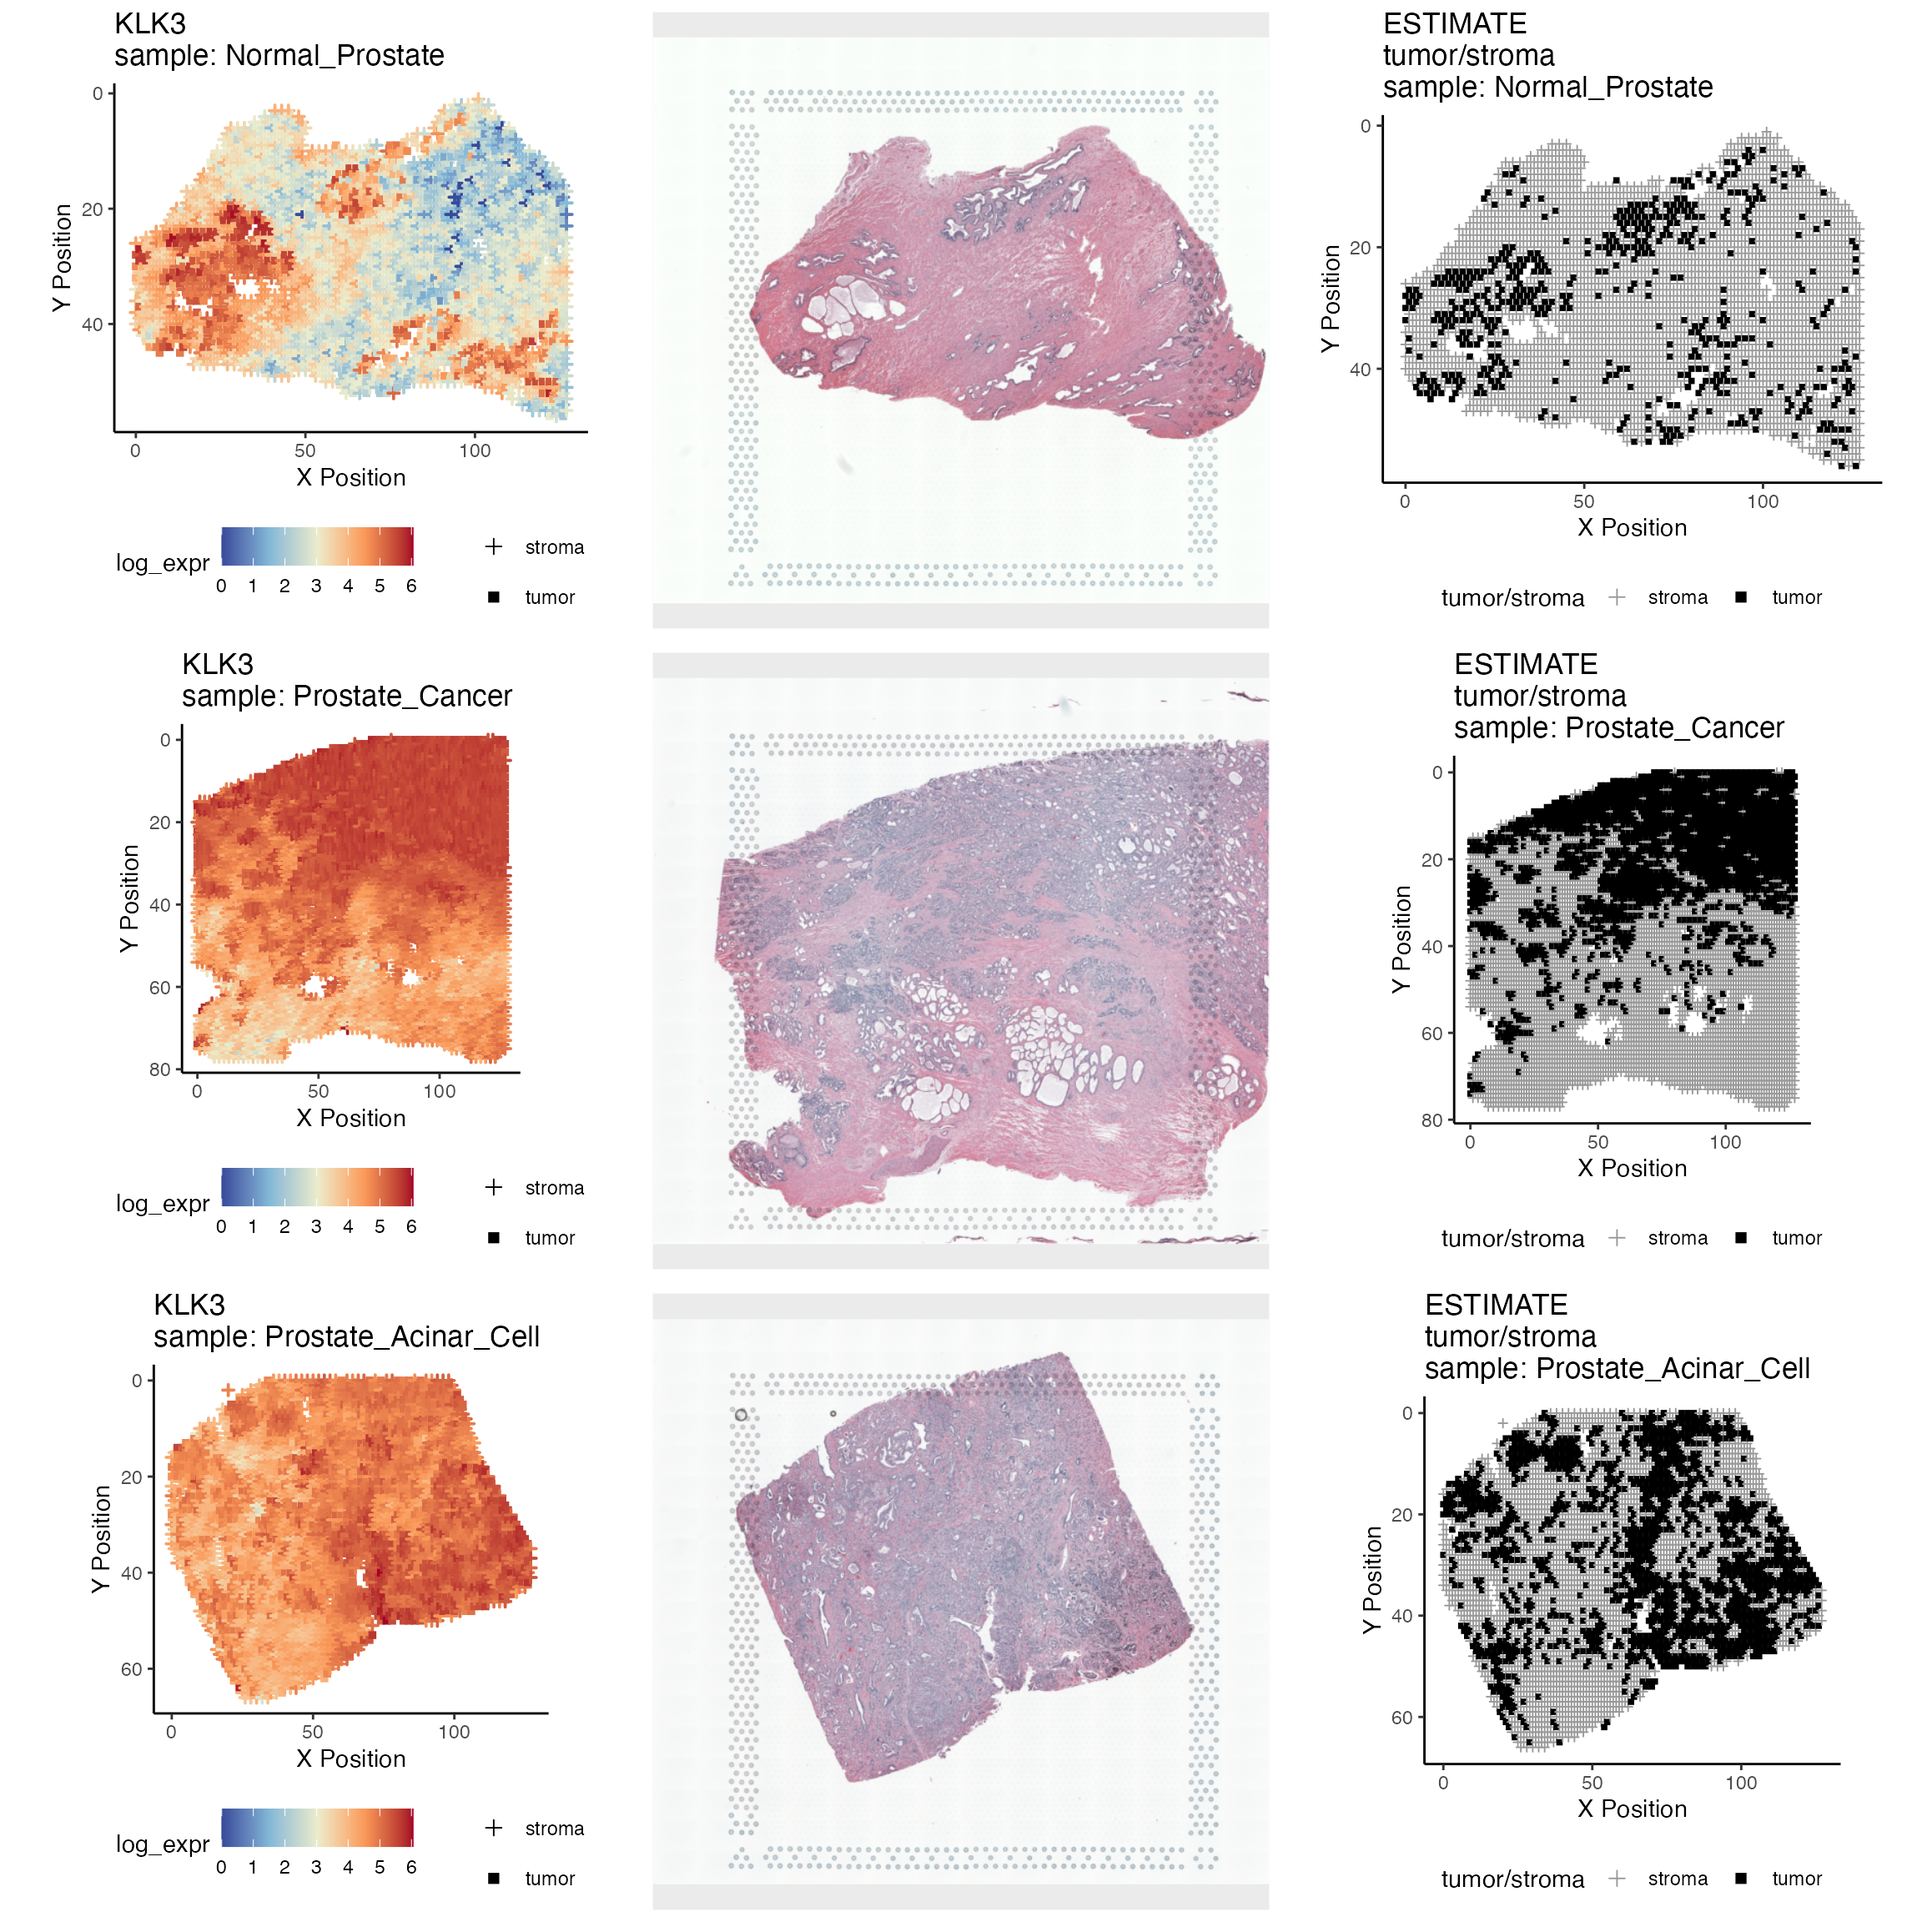
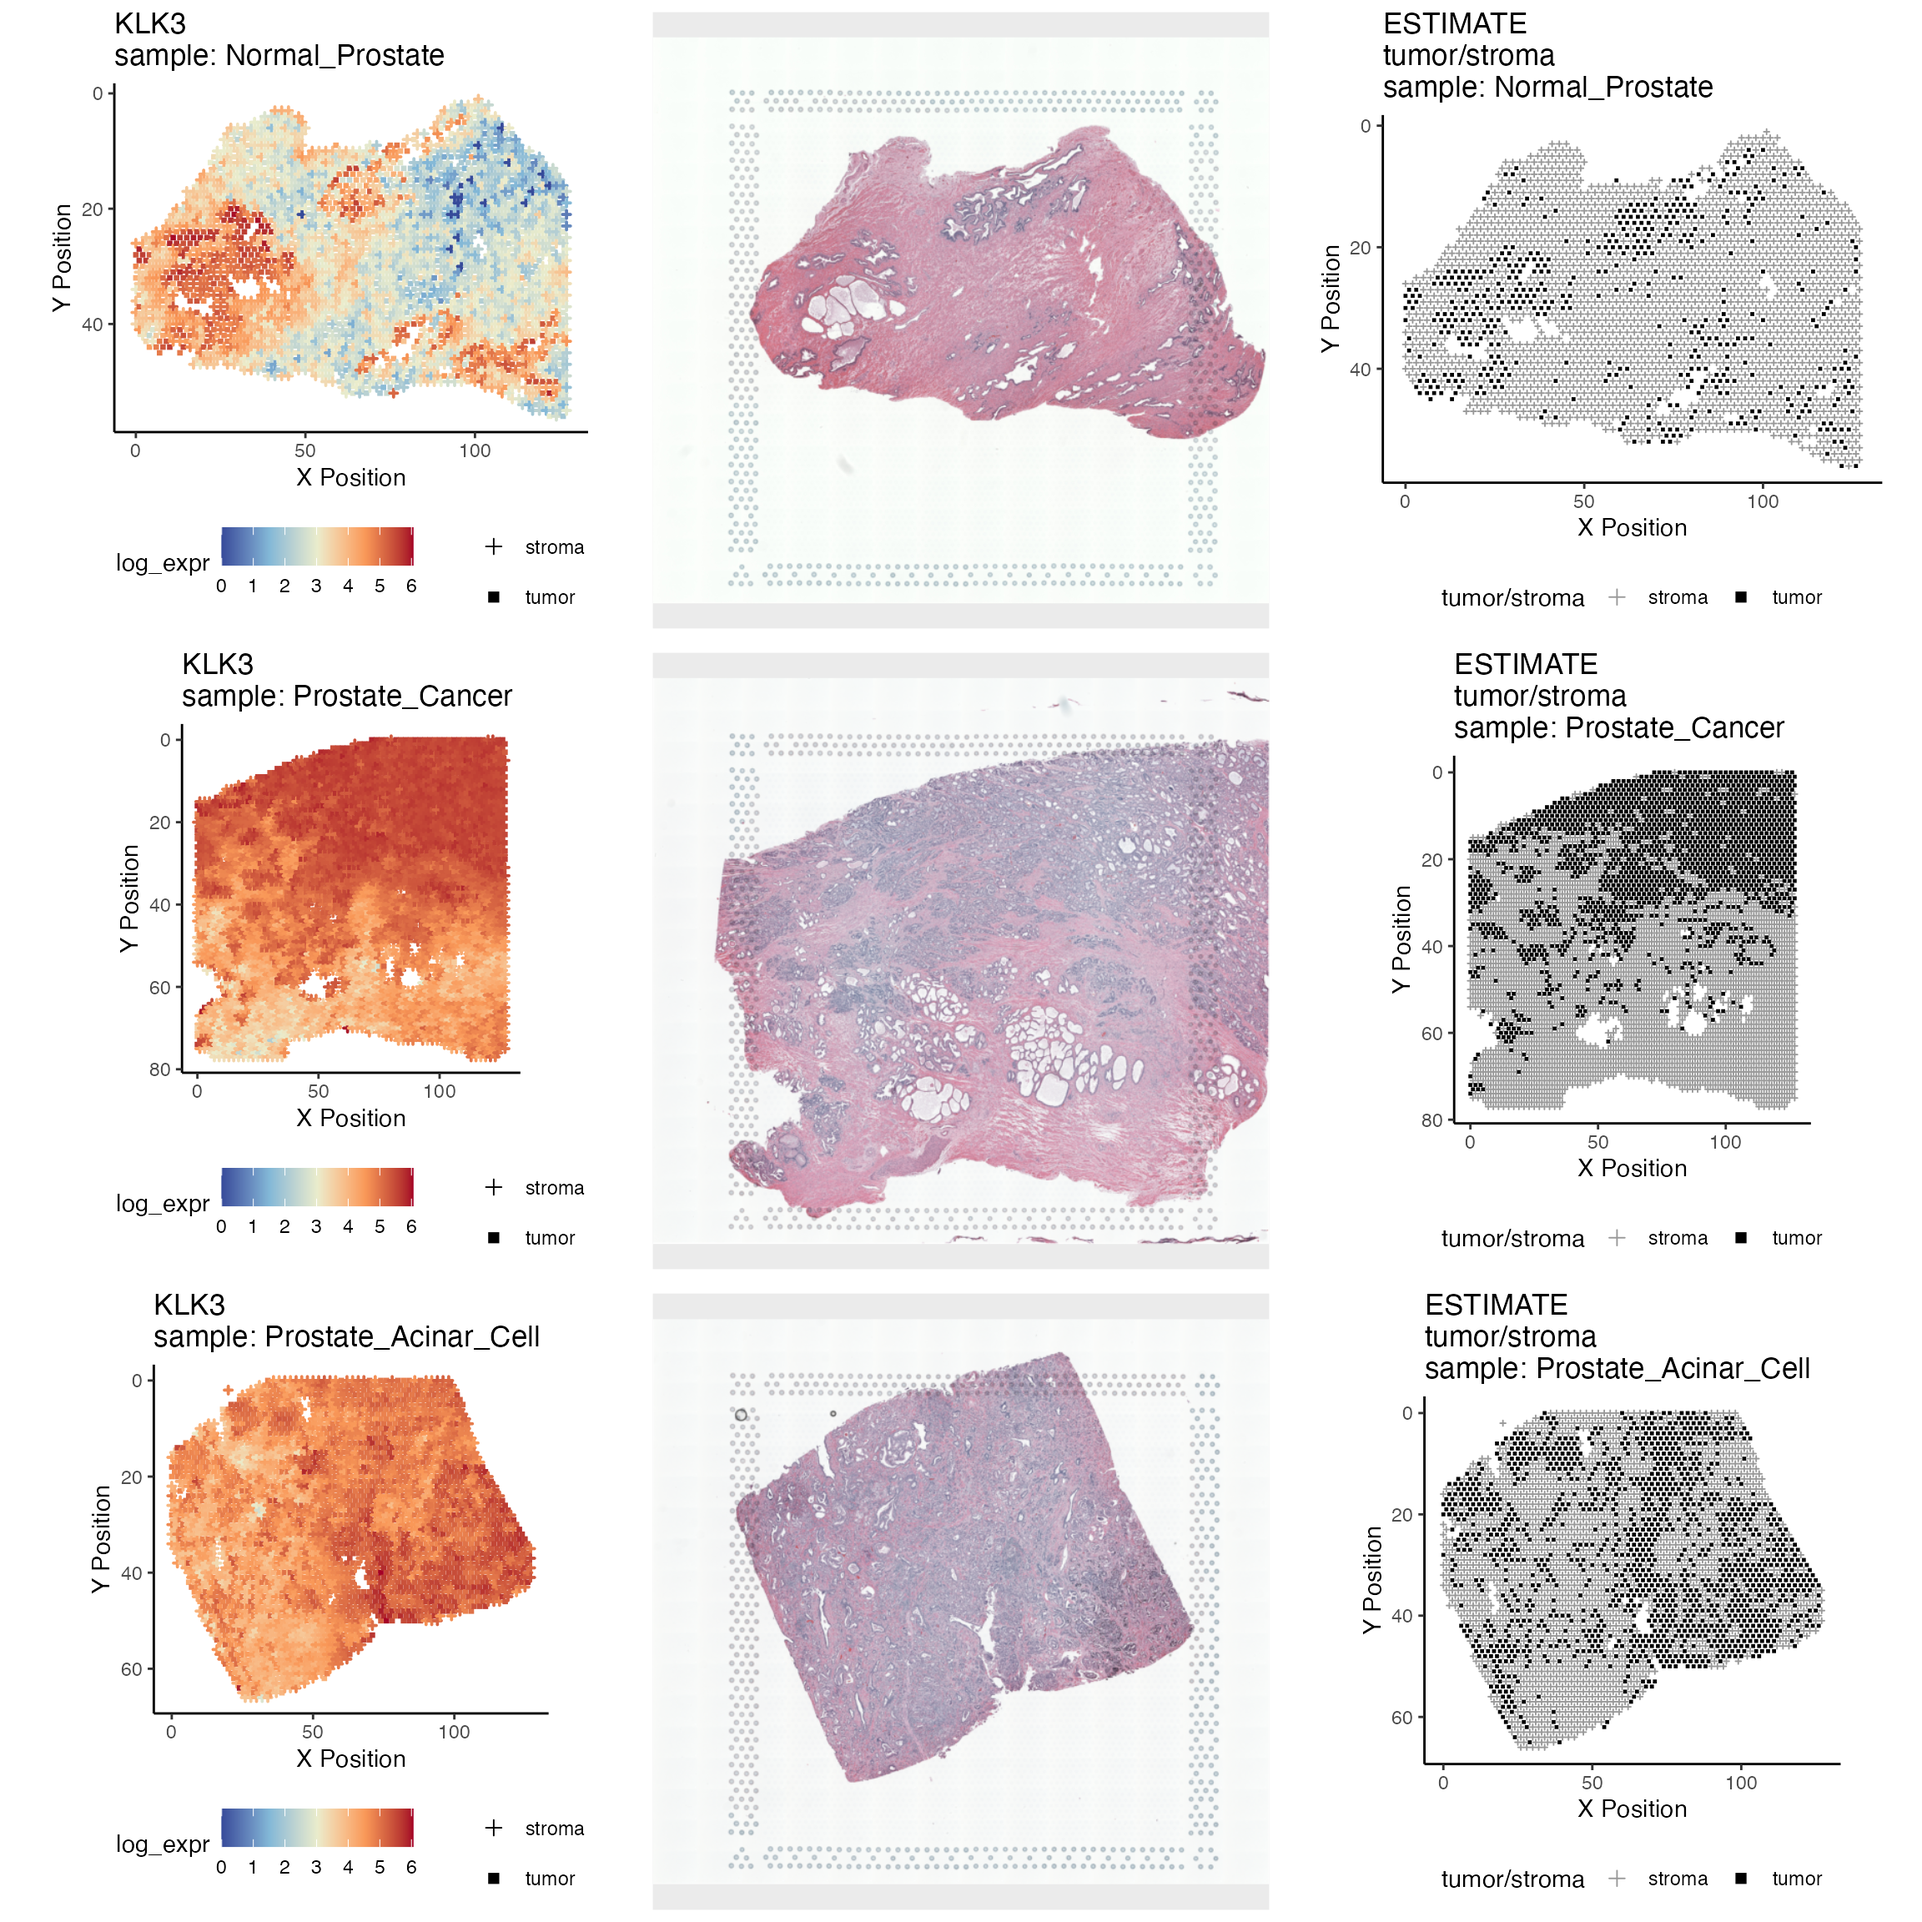
prostate vignette fixed

diff --git a/docs/articles/prostatecancer_Visium_vignette.html b/docs/articles/prostatecancer_Visium_vignette.html
@@ -346,9 +346,7 @@ manner:</p>
 <code><a href="../reference/gene_krige.html">gene_krige()</a></code> and setting <code>python=T</code> to use the
 <code>PyKrige</code> implementation.</p>
 <div class="sourceCode" id="cb20"><pre class="downlit sourceCode r">
-<code class="sourceCode R"><span class="va">prvisium</span> <span class="op">&lt;-</span> <span class="fu"><a href="../reference/gene_krige.html">gene_krige</a></span><span class="op">(</span><span class="va">prvisium</span>, genes<span class="op">=</span><span class="st">'KLK3'</span>, univ<span class="op">=</span><span class="cn">F</span>, python<span class="op">=</span><span class="cn">T</span><span class="op">)</span>
-<span class="co">#&gt; Loading required package: magrittr</span>
-<span class="co">#&gt; Warning in mccollect(jobs): 3 parallel jobs did not deliver results</span></code></pre></div>
+<code class="sourceCode R"><span class="va">prvisium</span> <span class="op">&lt;-</span> <span class="fu"><a href="../reference/gene_krige.html">gene_krige</a></span><span class="op">(</span><span class="va">prvisium</span>, genes<span class="op">=</span><span class="st">'KLK3'</span>, univ<span class="op">=</span><span class="cn">F</span>, python<span class="op">=</span><span class="cn">T</span><span class="op">)</span></code></pre></div>
 <p>As mentioned at the beginning of this vignette, we have leveraged the
 <code>reticulate</code> package to benefit from the speed that python
 can bring to computationally expensive functions. For Kriging, we pass
@@ -360,8 +358,6 @@ into account, but takes much longer to perform, thus we set
 <p>We can now plot the transcriptomic surfaces:</p>
 <div class="sourceCode" id="cb21"><pre class="downlit sourceCode r">
 <code class="sourceCode R"><span class="va">kplot</span> <span class="op">&lt;-</span> <span class="fu"><a href="../reference/plot_gene_krige.html">plot_gene_krige</a></span><span class="op">(</span><span class="va">prvisium</span>, genes<span class="op">=</span><span class="st">'KLK3'</span>, color_pal<span class="op">=</span><span class="st">'sunset'</span>, image<span class="op">=</span><span class="cn">T</span><span class="op">)</span>
-<span class="co">#&gt; Warning in max(maxvalue): no non-missing arguments to max; returning -Inf</span>
-<span class="co">#&gt; Warning in min(minvalue): no non-missing arguments to min; returning Inf</span>
 <span class="co">#&gt; KLK3 kriging for subject 1 is not present in STList</span>
 <span class="co">#&gt; KLK3 kriging for subject 2 is not present in STList</span>
 <span class="co">#&gt; KLK3 kriging for subject 3 is not present in STList</span>
@@ -386,7 +382,7 @@ this data set.</p>
 <p>We can now plot the spot classification along side the expression
 plot and the H&amp;E image.</p>
 <div class="sourceCode" id="cb23"><pre class="downlit sourceCode r">
-<code class="sourceCode R"><span class="va">eplot</span> <span class="op">&lt;-</span> <span class="fu"><a href="../reference/plot_gene_quilt.html">plot_gene_quilt</a></span><span class="op">(</span><span class="va">prvisium</span>, genes<span class="op">=</span><span class="st">"KLK3"</span>, color_pal<span class="op">=</span><span class="st">"sunset"</span>, purity<span class="op">=</span><span class="cn">T</span>, image<span class="op">=</span><span class="cn">T</span>, ptsize<span class="op">=</span><span class="fl">1</span><span class="op">)</span>
+<code class="sourceCode R"><span class="va">eplot</span> <span class="op">&lt;-</span> <span class="fu"><a href="../reference/plot_gene_quilt.html">plot_gene_quilt</a></span><span class="op">(</span><span class="va">prvisium</span>, genes<span class="op">=</span><span class="st">"KLK3"</span>, color_pal<span class="op">=</span><span class="st">"sunset"</span>, purity<span class="op">=</span><span class="cn">T</span>, image<span class="op">=</span><span class="cn">T</span>, ptsize<span class="op">=</span><span class="fl">0.5</span><span class="op">)</span>
 <span class="fu">ggpubr</span><span class="fu">::</span><span class="fu"><a href="https://rpkgs.datanovia.com/ggpubr/reference/ggarrange.html" class="external-link">ggarrange</a></span><span class="op">(</span>plotlist<span class="op">=</span><span class="va">eplot</span>, ncol<span class="op">=</span><span class="fl">3</span>, nrow<span class="op">=</span><span class="fl">3</span>, legend<span class="op">=</span><span class="st">'bottom'</span><span class="op">)</span></code></pre></div>
 <p><img src="prostatecancer_Visium_vignette_files/figure-html/plot_estimate-1.png" width="1152"></p>
 <p>Note that the normal prostate sample has a spots classified as tumor
